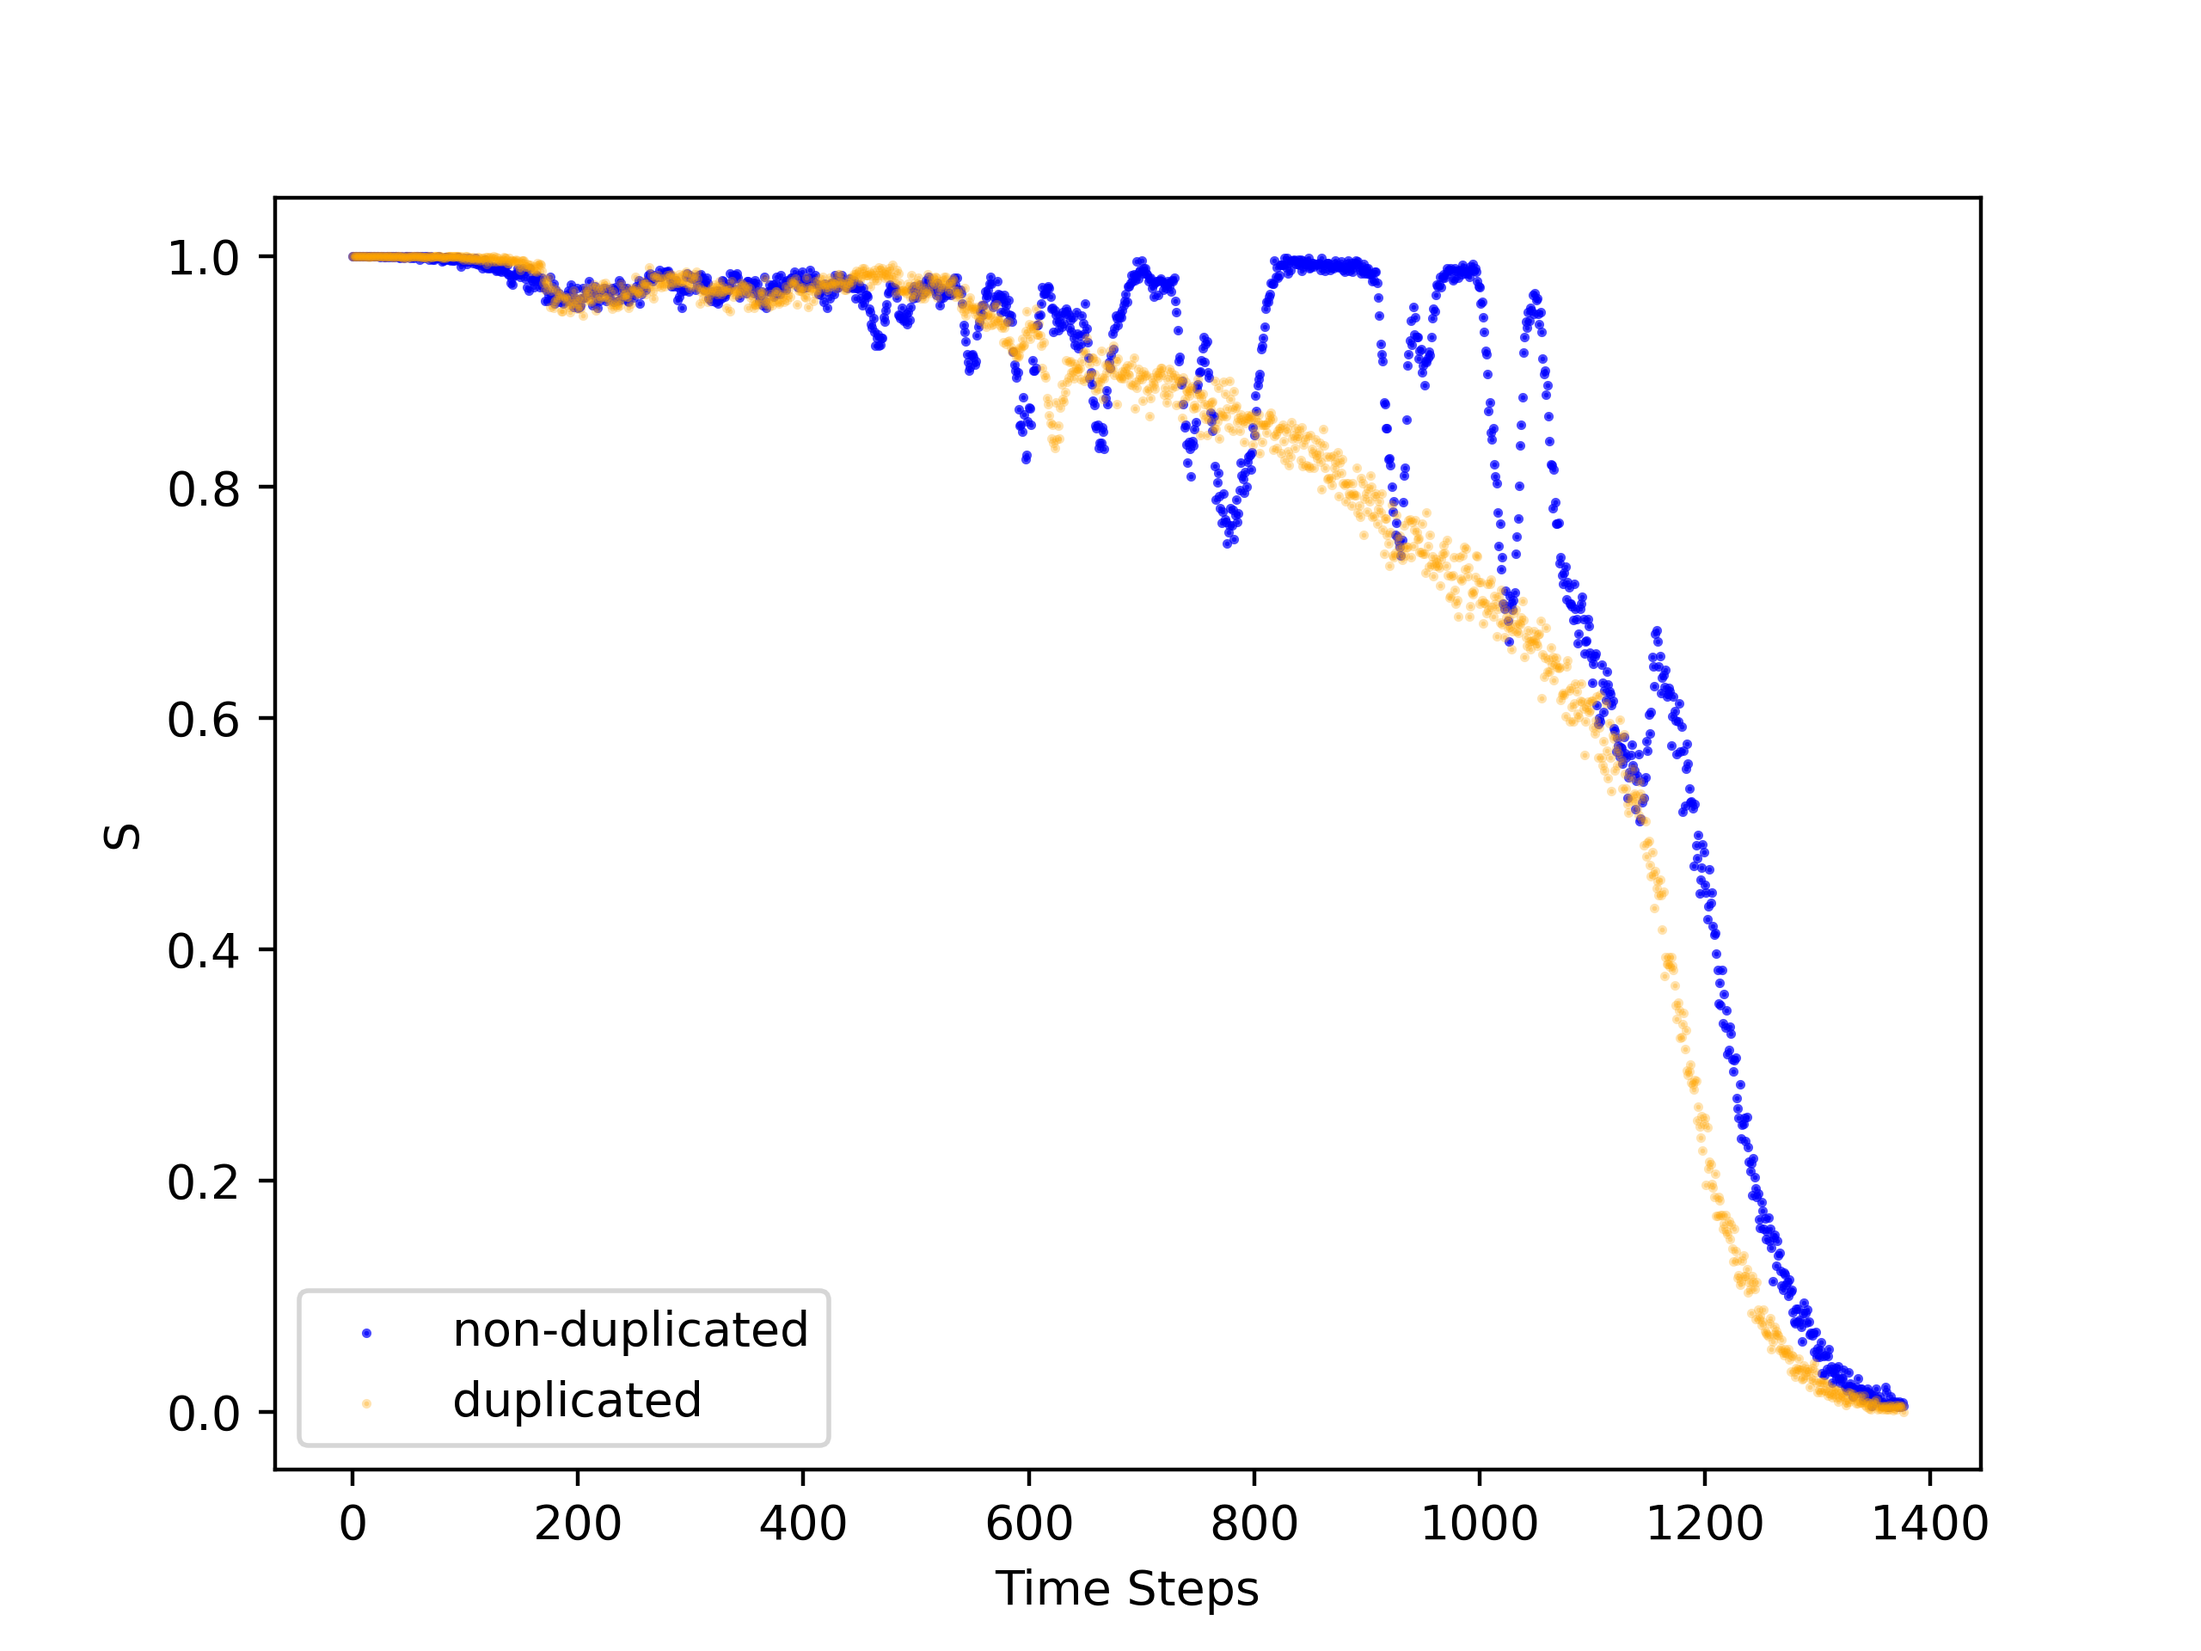
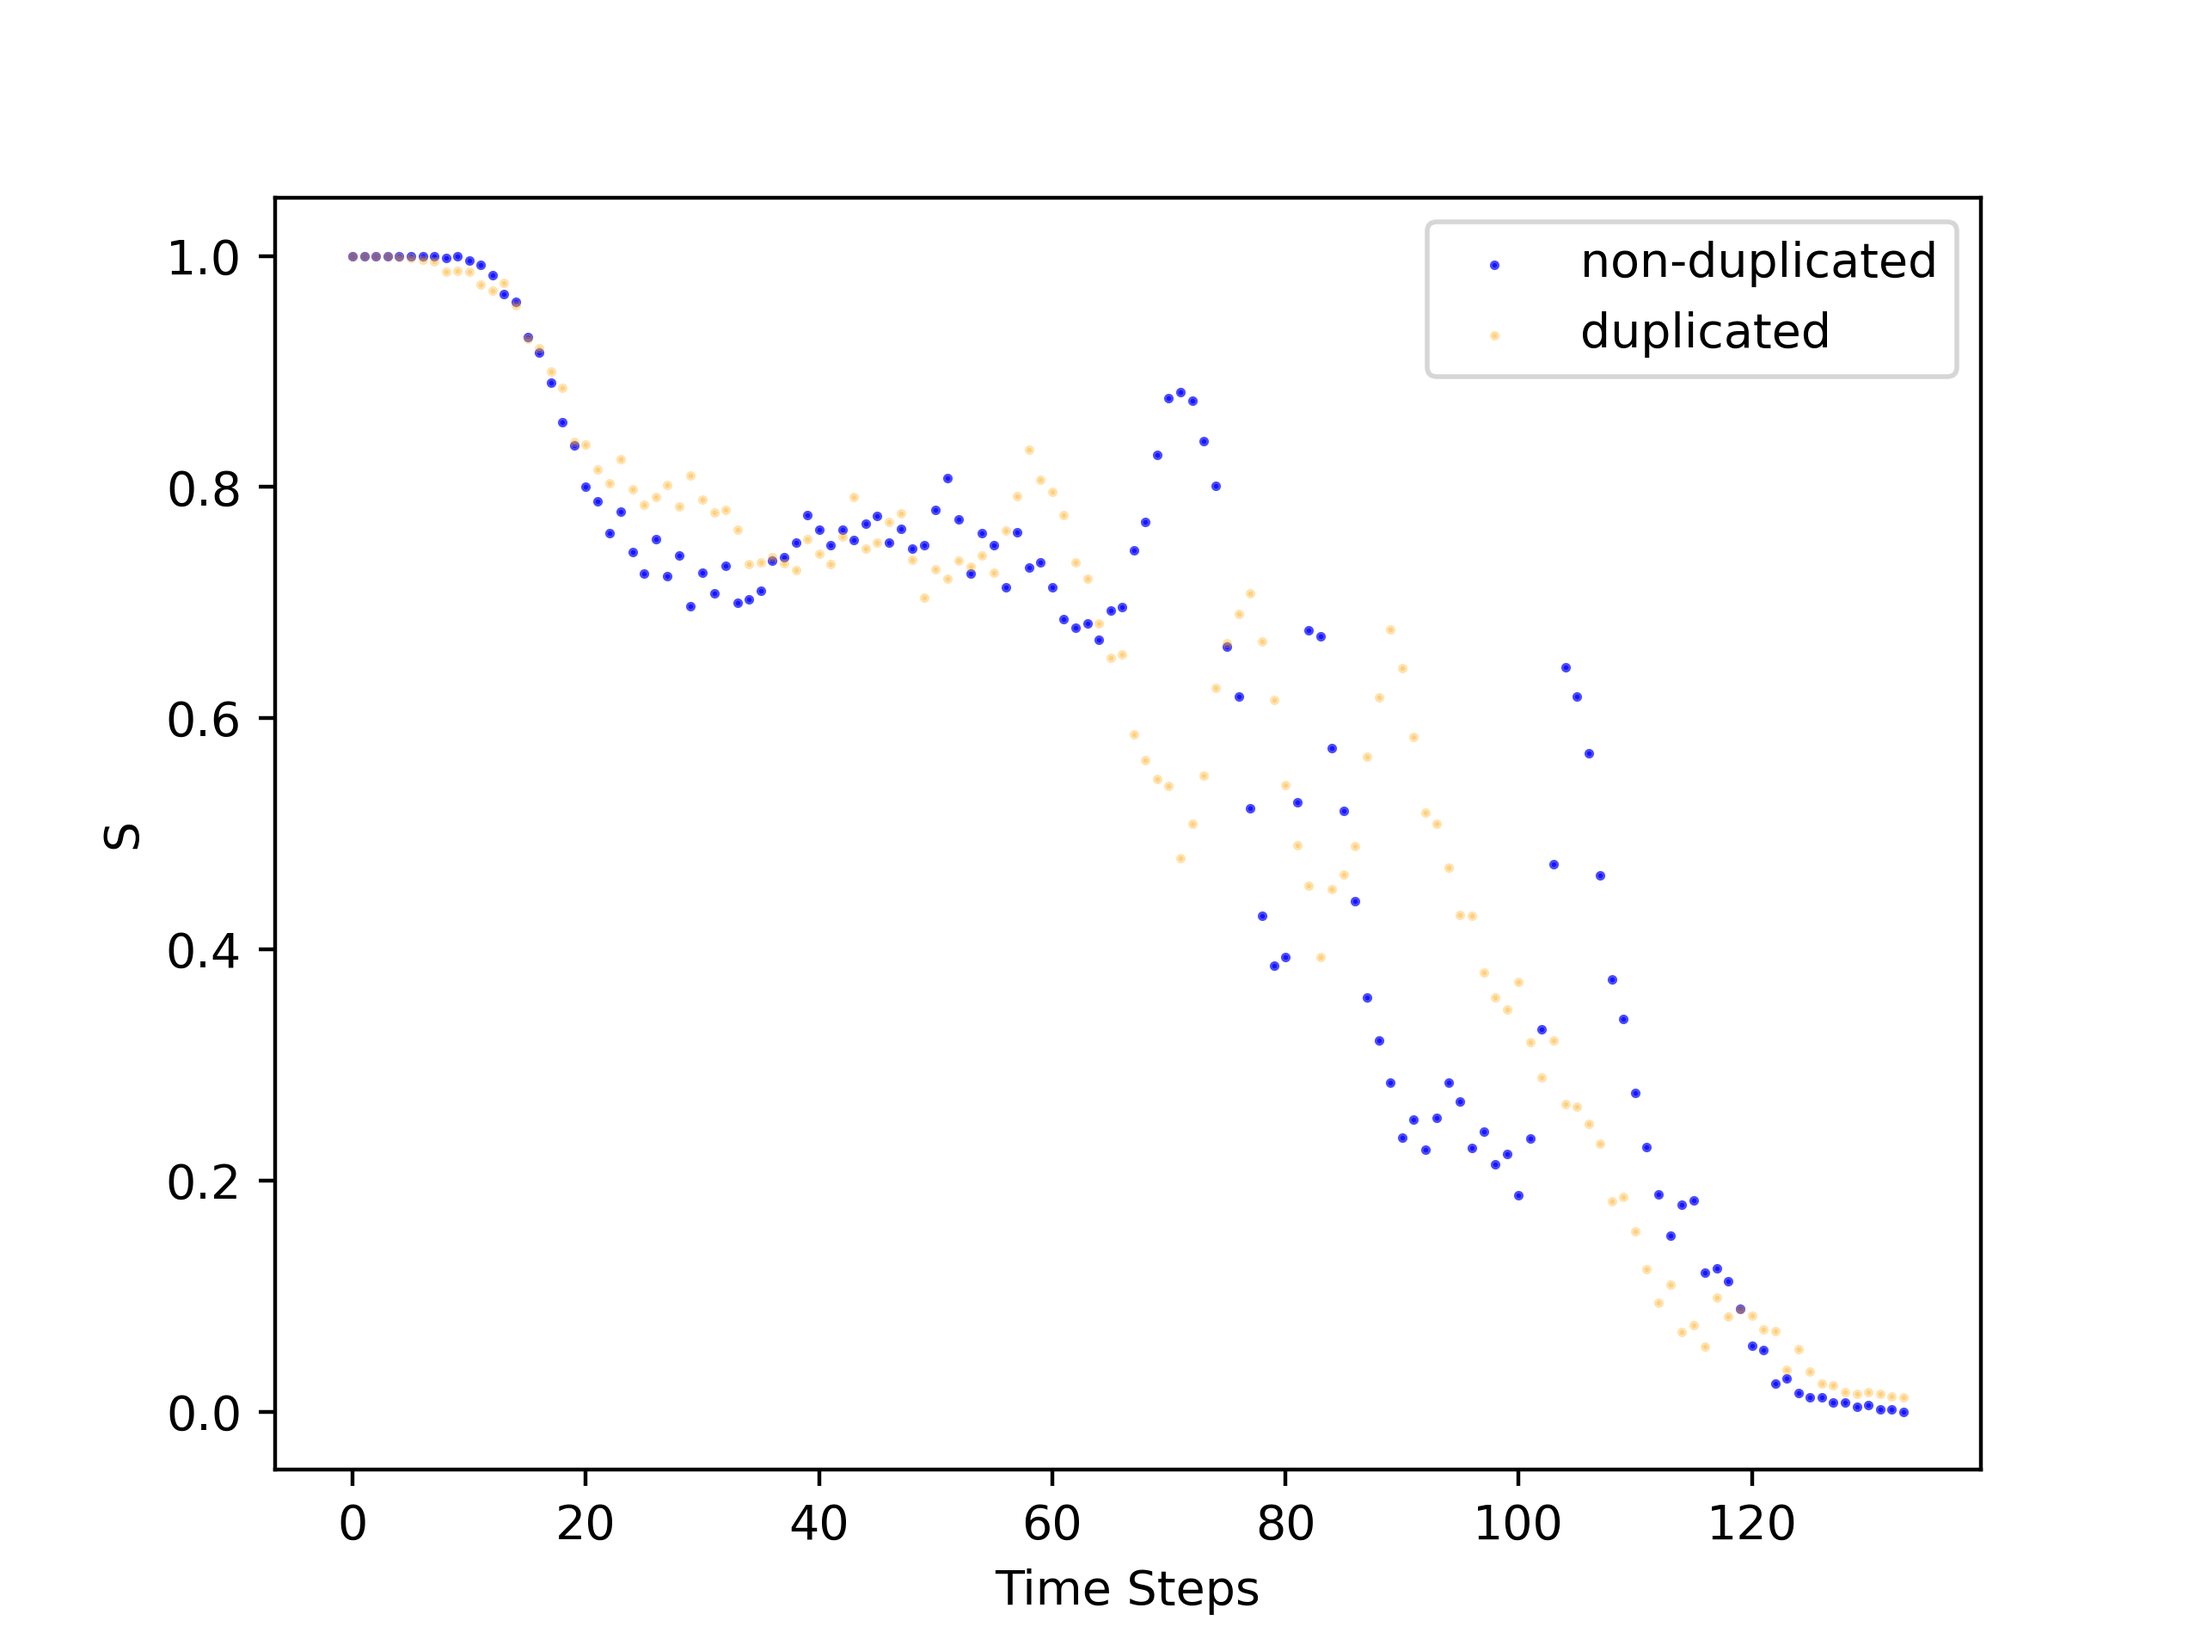
Now folders are cluster based on the environmantal generator function

diff --git a/Functions/base.cpp b/Functions/base.cpp
@@ -187,18 +187,55 @@ void genome::base (int N)
         du_live_list.clear();
 
     }
+
+    cout<<"simulation done, now archiving results ..."<<endl;
+
     string add = "st_" + to_string(step) + "," + "nn_" + to_string(number_networks) + "," + "mu_" + to_string(chance_of_new_connetion) + "," + "ref_env_=" + to_string(ref_Envmnt);
-    string archive_address = "./ARCHIVE/" + add; 
-    string comnd = "mkdir " + archive_address;
+    
+    if (lin_envo)
+    {
+        string comnd = "mkdir ./ARCHIVE/Linear_input/";
+        system (comnd.c_str());
+        add = "./ARCHIVE/Linear_input/" + add + "/";
+    }
+
+    if (Gaus_envo)
+    {
+        string comnd = "mkdir ./ARCHIVE/Gaus_input/";
+        system (comnd.c_str());
+        add = "./ARCHIVE/Gaus_input/" + add + "/";
+    }
+
+    if (stp_envo)
+    {
+        string comnd = "mkdir ./ARCHIVE/Step_input/";
+        system (comnd.c_str());
+        add = "./ARCHIVE/Step_input/" + add + "/";
+    }
+
+    if (neg_envo)
+    {
+        string comnd = "mkdir ./ARCHIVE/Negative_input/";
+        system (comnd.c_str());
+        add = "./ARCHIVE/Negative_input/" + add + "/";
+    }
+
+    string comnd;
+    
+    comnd = "mkdir " + add;
     system (comnd.c_str());
-    comnd = "cp -r ./History " + archive_address;
+
+    comnd = "cp -r ./History/ " + add;
     system (comnd.c_str());
-    comnd = "cp -r ./Outputs " + archive_address;
+    
+    comnd = "cp -r ./Outputs/ " + add;
     system (comnd.c_str());
     
     comnd = "python3 plotter.py ";
     system (comnd.c_str());
-    comnd = "cp -r ./diagrams " + archive_address;
+    
+    comnd = "cp -r ./diagrams/ " + add;
     system (comnd.c_str());
-    cout<<"simulation finished,"<< " and Results are get copied to the directory of "<<"'"<<archive_address<<"'!"<<endl;
+    
+    cout << "Results are copied to the directory of "<<"'"<<add<<"' successfully!"<<endl;
 }

diff --git a/Functions/environment_changes.cpp b/Functions/environment_changes.cpp
@@ -5,6 +5,7 @@ double genome::Environment_li(int random_value, int step)
 
     //linear environment:
     double evolve = (static_cast<double>(random_value) / step) + ref_Envmnt ; 
+    lin_envo = true;
     return evolve;
 }
 
@@ -16,6 +17,7 @@ double genome::Environment_Ga()
     mt19937 gen(rd());
     normal_distribution<double> distribution(mean, std::sqrt(variance));
     double evolve = distribution(gen);
+    Gaus_envo = true;
     return evolve;
 }
     
@@ -28,6 +30,7 @@ double genome::Environment_no_l(int random_value, int step)
     mt19937 gen(rd());
     normal_distribution<double> distribution(mean, std::sqrt(variance));
     double evolve = distribution(gen) + random_value;
+    stp_envo = true;
 
     return evolve;
 }
@@ -36,5 +39,6 @@ double genome::Environment_no_l(int random_value, int step)
 double genome::Environment_neg(int random_value, int step)
 {
     double evolve = ref_Envmnt  - (static_cast<double>(random_value) / step); 
+    neg_envo = true;
     return evolve;
 }

diff --git a/Functions/setting_initial_values.cpp b/Functions/setting_initial_values.cpp
@@ -15,6 +15,11 @@ int genome::Setting_initial_values(int N)
     chance_changing_weight   = mutation_rate;
     chance_of_del_connection = mutation_rate;
     chance_of_new_connetion  = mutation_rate;
+
+    lin_envo  = false   ;
+    Gaus_envo = false   ;
+    stp_envo  = false   ;
+    neg_envo  = false   ;
     
     Sigma = 0.1;
     Miuw = 0.0;   

diff --git a/Headers/Genome.hpp b/Headers/Genome.hpp
@@ -62,6 +62,11 @@ class genome
     int last_number_got_filled;
 
     double ref_Envmnt;
+
+    bool lin_envo;
+    bool Gaus_envo;
+    bool stp_envo;
+    bool neg_envo;
     
  //+++++++++ FUNCTIONS+++++++// 
     void base (int);
